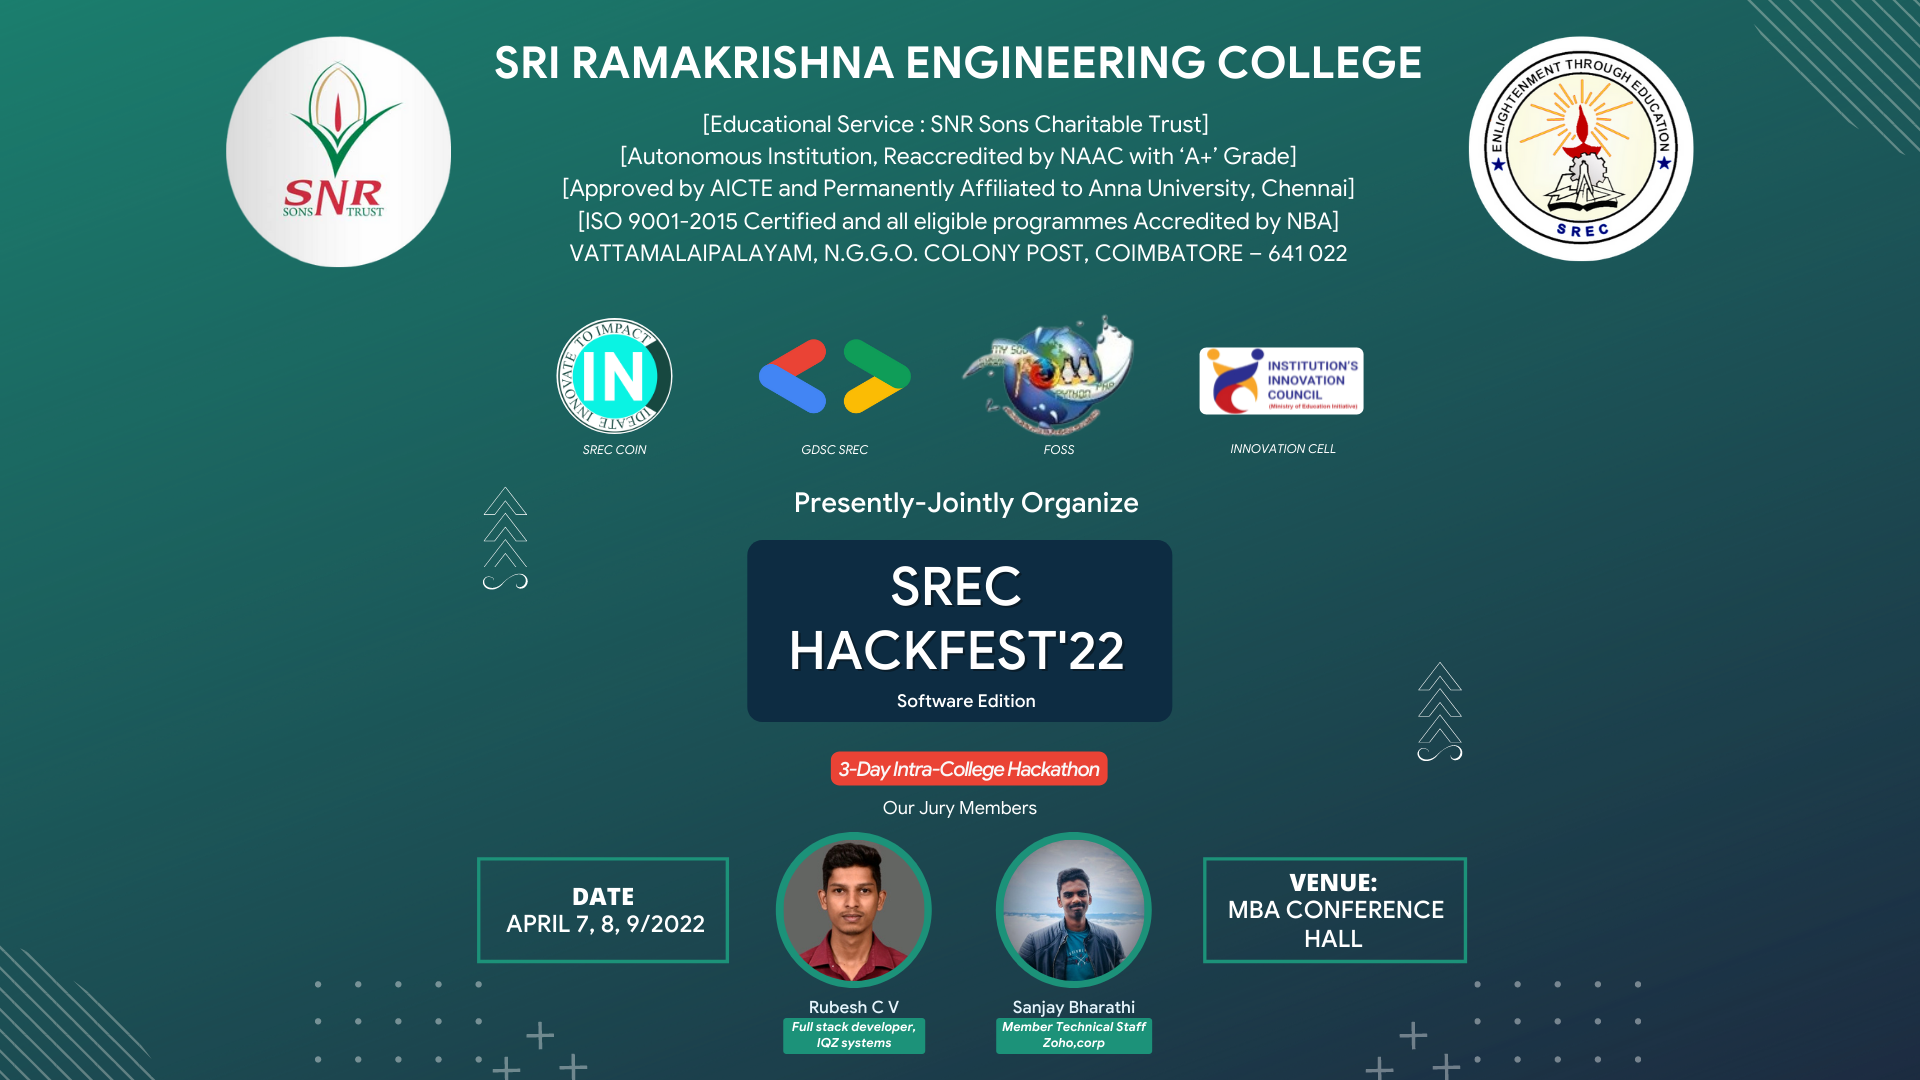
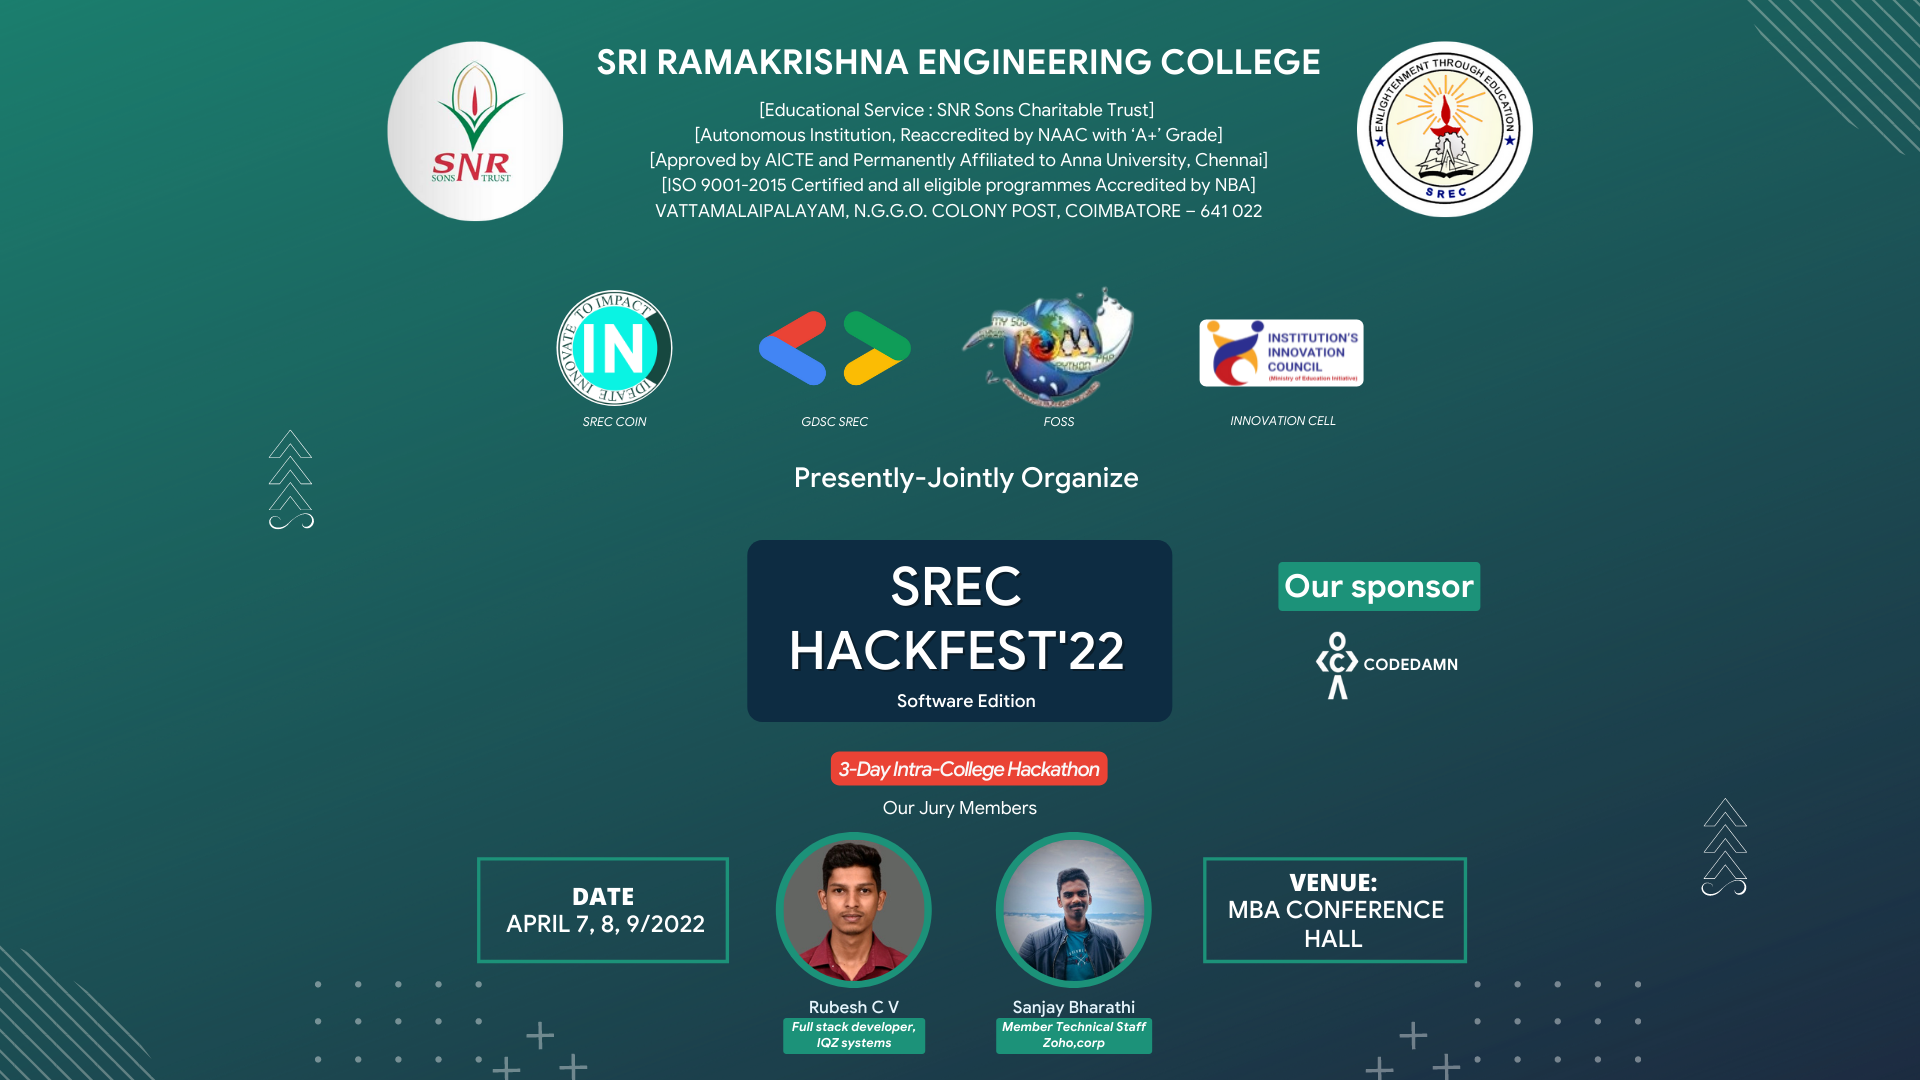
poster and registration status updated

diff --git a/src/components/register.js b/src/components/register.js
@@ -4,11 +4,7 @@ import './registerstyle.css';
 function Register() {
 	return (
 		<div className='register-bg'>
-			<button className='register-btn'>
-				<a target='_blank' href='https://forms.gle/tU6QUA8yrmgdwXn5A'>
-					Register Here
-				</a>
-			</button>
+			<div className='register-btn'>Registration Closed</div>
 			<button className='register-btn'>
 				<a href='/template.pptx' download>
 					Download Template
